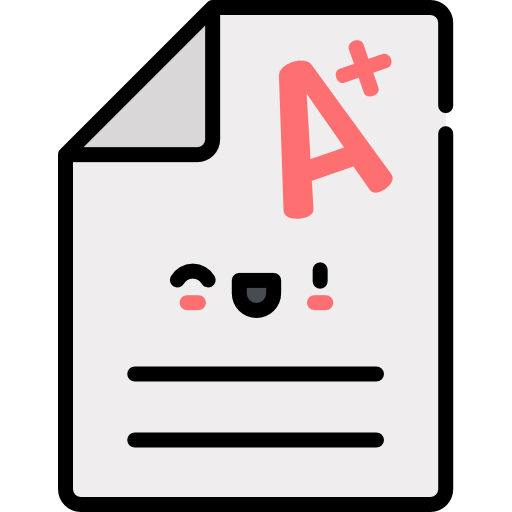
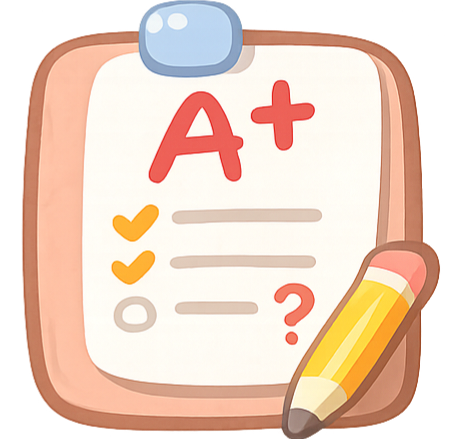
fix:힌트 노출시간 수정

diff --git a/index.html b/index.html
@@ -6,10 +6,10 @@
   <meta name="viewport" content="width=device-width, initial-scale=1.0">
   <title>투운사 시험문제은행</title>
   <link rel="stylesheet" href="style.css">
-  <link rel="apple-touch-icon" href="./file_00000000468472098d2c799d14b25257.png">
-
-  <link rel="icon" type="image/png" sizes="192x192" href="./file_00000000468472098d2c799d14b25257.png">
-  <link rel="icon" type="image/png" sizes="32x32" href="./file_00000000468472098d2c799d14b25257.png">
+  <link rel="apple-touch-icon" href="./1046287.png">
+  <link rel="icon" href="/1046287.png" type="image/x-icon">
+  <link rel="icon" type="image/png" sizes="192x192" href="./1046287.png">
+  <link rel="icon" type="image/png" sizes="32x32" href="./1046287.png">
 
   <meta name="theme-color" content="#ffffff">
 